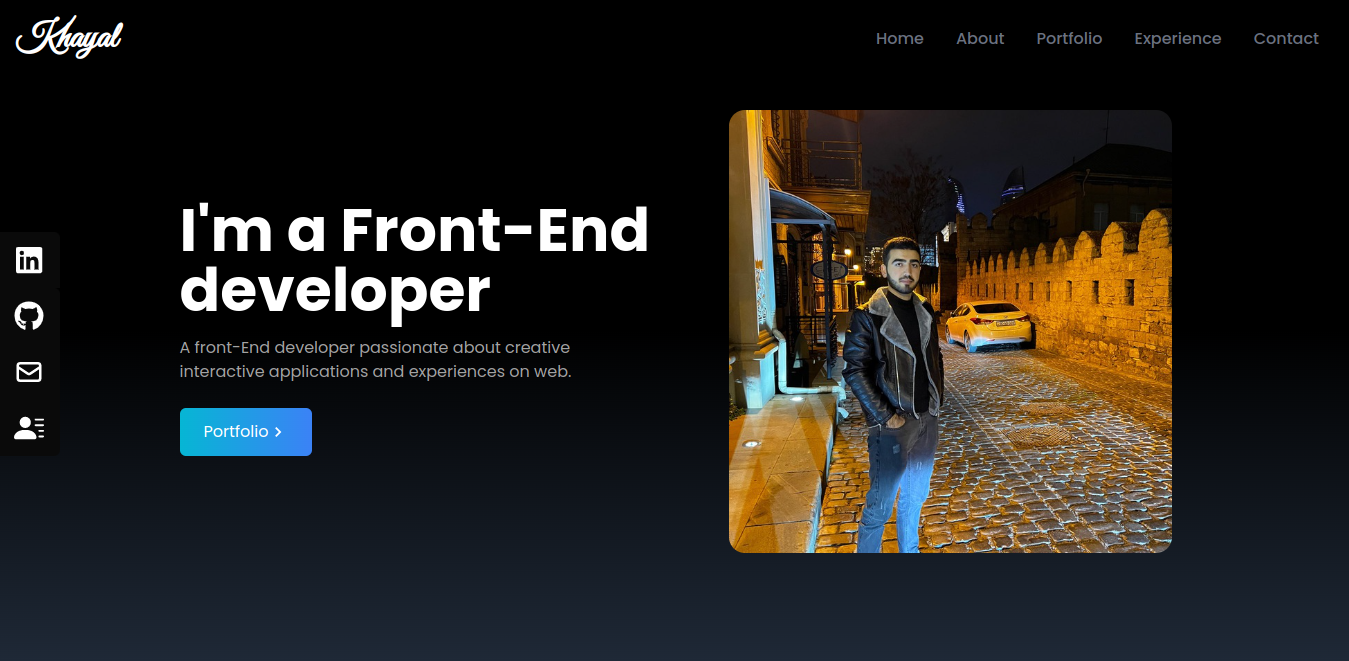
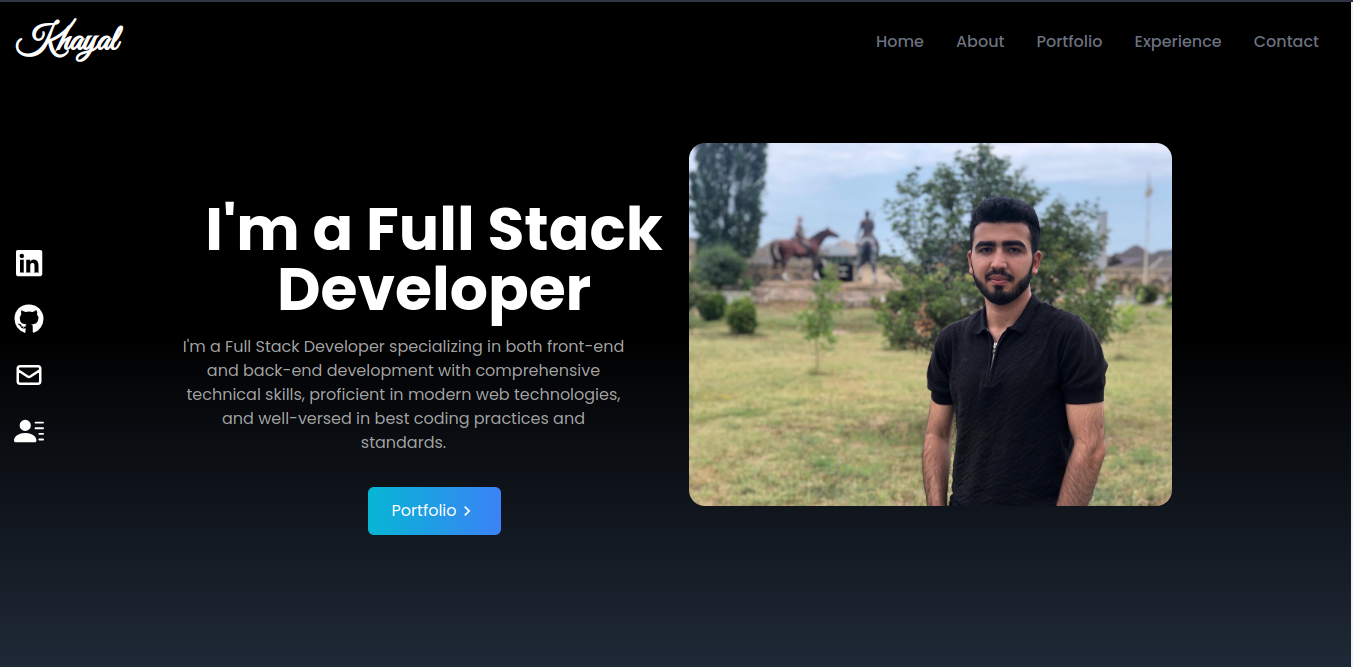
change about text

diff --git a/src/components/About.js b/src/components/About.js
@@ -16,14 +16,14 @@ const About = () => {
         </div>
         <div>
           <p className="text-xl mt-20">
-            Dynamic and creative front-end developer with a solution-oriented
-            approach, passionate about learning new technologies. Proficient in
-            communication, collaboration, and technical documentation. Committed
-            to delivering high-quality work as a team player. Continuously
-            seeking opportunities to learn and grow in the field of front-end
-            development.
+            I am a Full Stack Developer with a strong focus on Front-End development. I
+            have been enhancing my skills using the latest Front-End tools for
+            nearly 2 years. Additionally, I am learning Back-End development
+            with Node.js through self-study. During this time, I have made
+            significant progress and I am rapidly advancing due to my strong
+            desire to learn. I am confident that I will become a Full-stack
+            developer in the near future.
           </p>
-          
         </div>
       </div>
     </div>

diff --git a/src/components/Navbar.js b/src/components/Navbar.js
@@ -19,7 +19,7 @@ const Navbar = () => {
     },
     {
       id: 3,
-      link: "portfolio",
+      link: "projects",
     },
     {
       id: 4,
